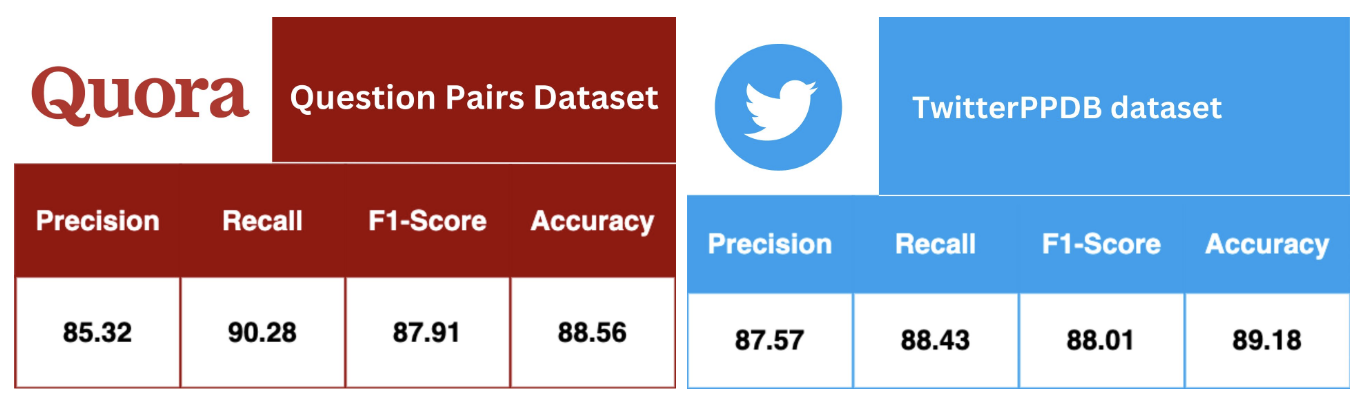
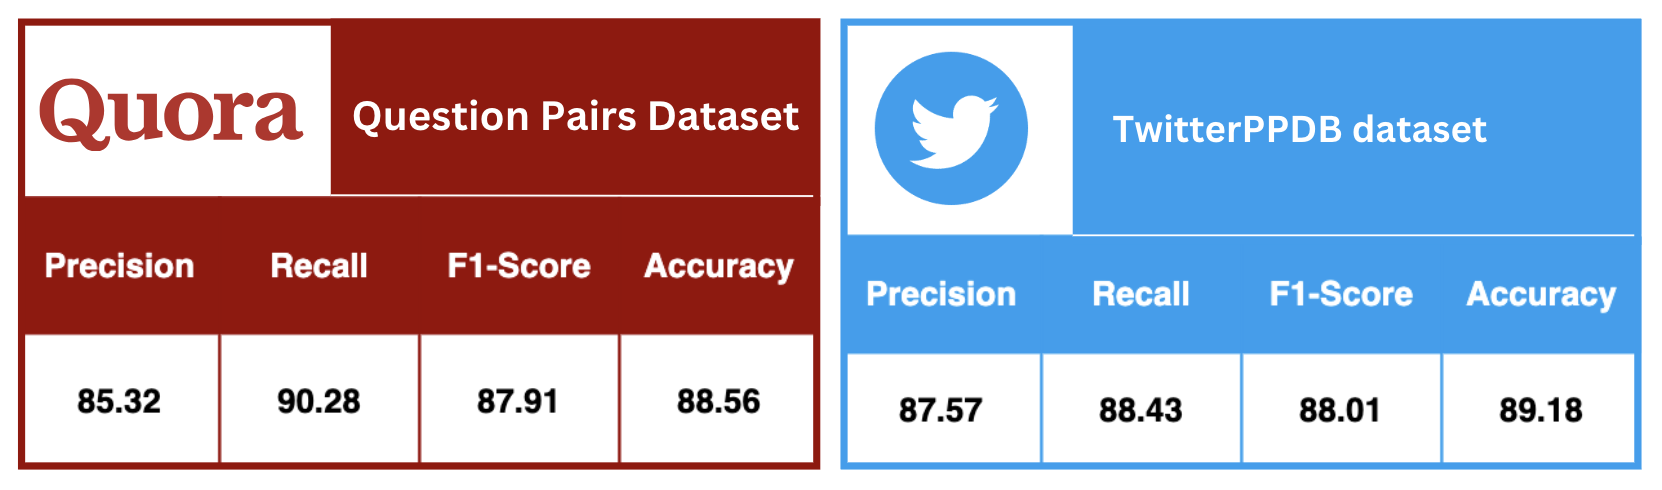
changes done

diff --git a/README.md b/README.md
@@ -29,7 +29,7 @@ scores on the datasets used.</p>
 <h3>Dataset</h3>
 <!-- 
 ![img](images/twitter_dataset.jpg) ![img](images/quora_dataset.jpg) -->
-<img src="images/dataset.png" alt="drawing" width="100%"/>
+<img src="images/datasets.png" alt="drawing" width="100%"/>
 
 <hr/>
 
